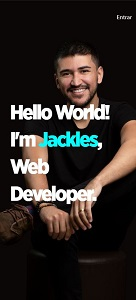
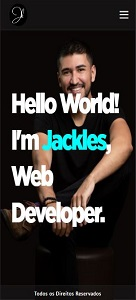
ajuste pagina home

diff --git a/app/templates/home.html b/app/templates/home.html
@@ -1,6 +1,4 @@
-{% extends 'base.html' %}
-
-{% block head %}
+{% extends 'base.html' %} {% block head %}
 
 <title>Jackles Kerley</title>
 
@@ -10,10 +8,8 @@
     background-repeat: no-repeat;
     background-position: center;
     background-size: cover;
-    min-height: 100vh;
-    
   }
-  
+
   @media (max-width: 600px) {
     body {
       background-image: url(../static/img/fotobackmobile.svg);
@@ -23,41 +19,26 @@
 
   @media (min-width: 601px) and (max-width: 894px) {
     body {
-      background-size:contain;
+      background-size: contain;
     }
-  }
-
-  .header {
-    display: none !important;
   }
 
   .seta {
     display: none !important;
   }
 
-  .footer {
-    display: none !important;
-  }
 </style>
 
-{% endblock %}
-
-{% block body %}
+{% endblock %} {% block body %}
 
 <section class="pg-home container-fluid d-flex align-items-center">
-
   <div class="conteudo mx-auto d-flex align-items-center">
-
-    <p class="m-0 p-0">Hello World!<br>
-      I'm <span>Jackles</span>,<br>
+    <p class="m-0 p-0">
+      Hello World!<br />
+      I'm <span>Jackles</span>,<br />
       Web Developer.
     </p>
   </div>
-
-  <a href="/sobre" class="open">
-    <span>Entrar</span>
-  </a>
-
 </section>
 
 {% endblock %}

diff --git a/app/static/css/style.css b/app/static/css/style.css
@@ -135,7 +135,7 @@ header .menuMobile .menuMobileLista ul li a:hover {
   font-style: normal;
 }
 .pg-home {
-  min-height: 100vh;
+  min-height: 85vh;
   color: white;
 }
 .pg-home .conteudo {
@@ -228,27 +228,6 @@ header .menuMobile .menuMobileLista ul li a:hover {
   }
 }
 .pg-home .conteudo p span {
-  color: aqua;
-}
-.pg-home .open {
-  font-size: 110%;
-  text-decoration: none;
-  color: white;
-  position: fixed;
-  top: 4vh;
-  right: 3%;
-}
-@media (min-width: 1500px) and (max-width: 1800px) {
-  .pg-home .open {
-    font-size: 150%;
-  }
-}
-@media (min-width: 1801px) {
-  .pg-home .open {
-    font-size: 200%;
-  }
-}
-.pg-home .open:hover {
   color: aqua;
 }
 

diff --git a/app/static/css/_home.scss b/app/static/css/_home.scss
@@ -8,7 +8,7 @@
 }
 
 .pg-home {
-    min-height: 100vh;
+    min-height: 85vh;
     color: white;
 
     .conteudo {
@@ -91,27 +91,6 @@
             span {
                 color: aqua;
             }
-        }
-    }
-
-    .open {
-        font-size: 110%;
-        text-decoration: none;
-        color: white;
-        position: fixed;
-        top: 4vh;
-        right: 3%;
-
-        @media (min-width: 1500px) and (max-width: 1800px) {
-            font-size: 150%;
-        }
-
-        @media (min-width: 1801px) {
-            font-size: 200%;
-        }
-
-        &:hover {
-            color: aqua;
         }
     }
 }
